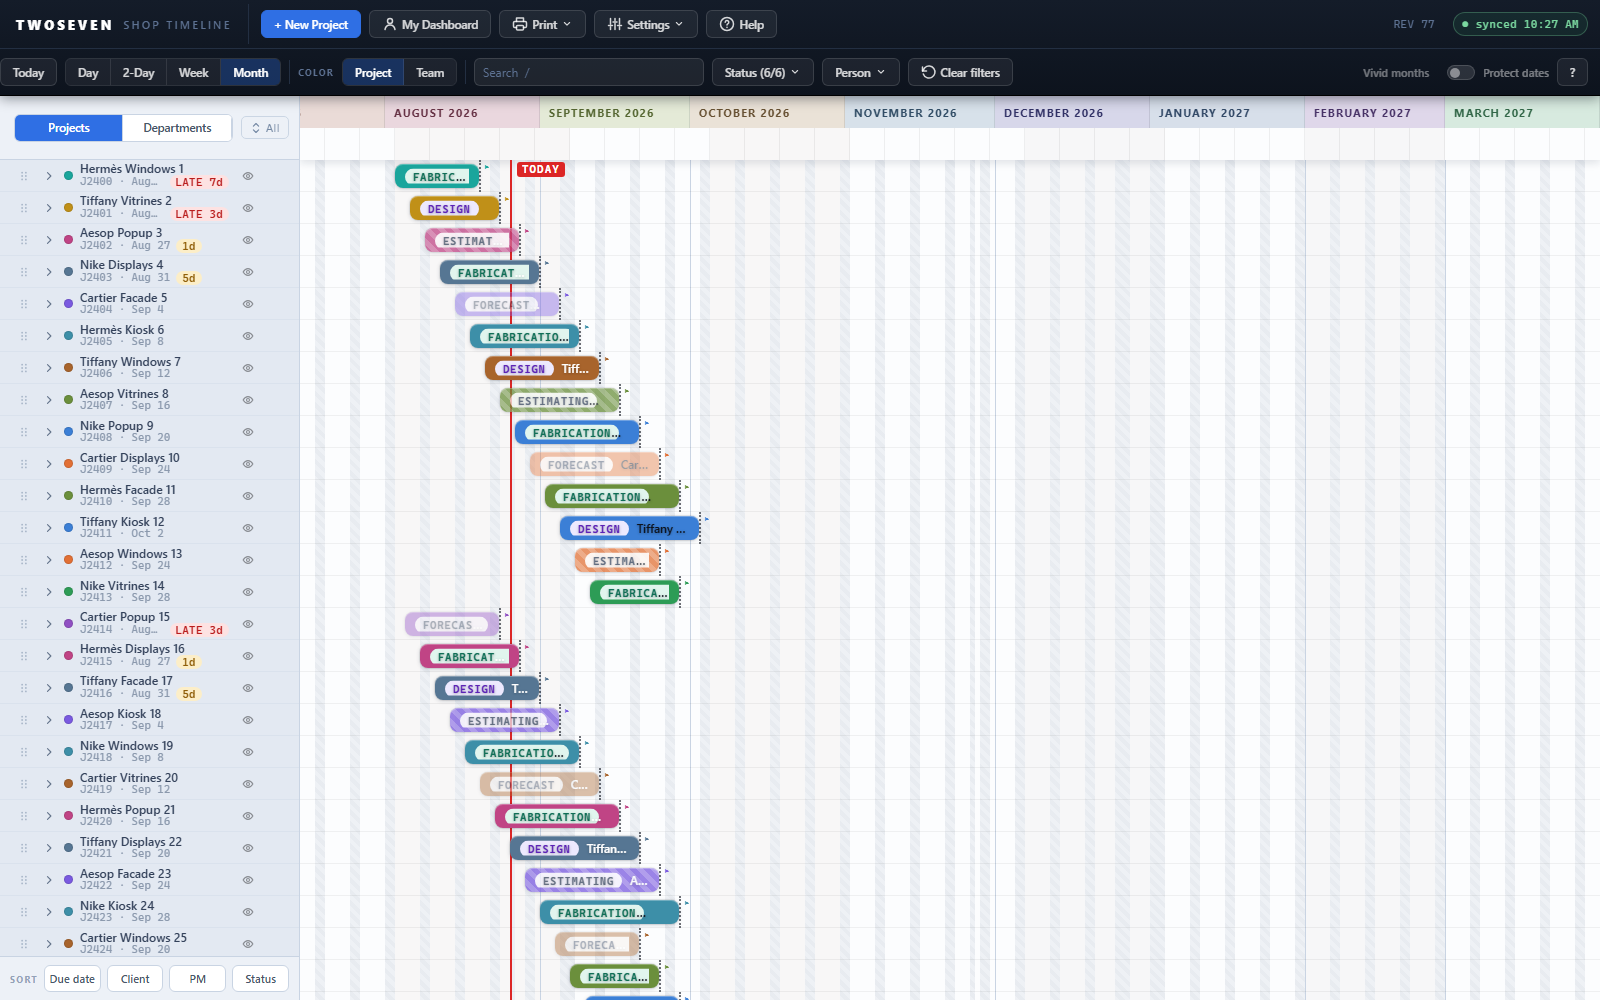
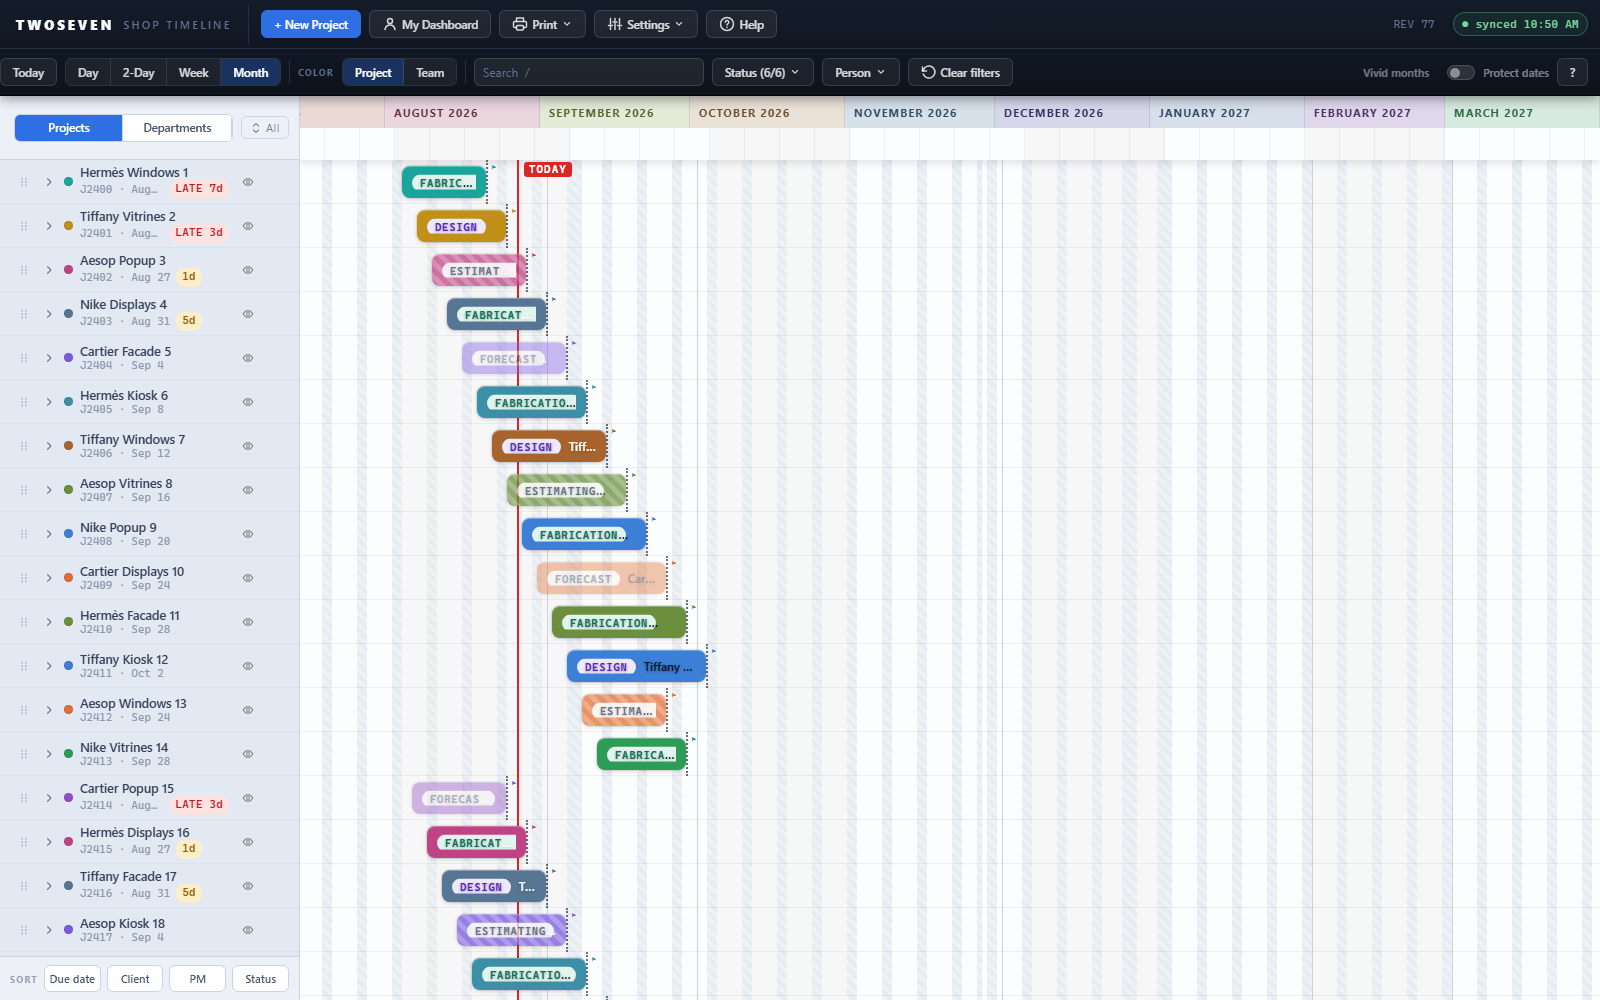
REV77 adjust: densities are 56/44, not 44/32 (owner ruling)
Comfortable keeps the pre-B5 default 56px rows; Compact takes the old
44px value. Bars stay 32px tall at both densities — only BAR_PAD moves
(12/6), so every hit target keeps the 24px floor without shrinking.
Design-Language §4 amended in the same PR (follow-or-update rule);
TODO §7 acceptance entry superseded in place; test46/test-b5 numbers
updated; Compact sidebar keeps the stock two-line styles (44px never
needed the tighter leading).

Changed region(s): [[0.25, 0.155, 0.4688, 1.0], [0.0312, 0.155, 0.1562, 0.961]]

diff --git a/index.html b/index.html
@@ -19,11 +19,11 @@
   --r-s:5px; --r-m:8px; --r-l:14px;
   /* type scale — Design-Language §3; --fs-micro is decorative eyebrows ONLY */
   --fs-title:15px; --fs-body:13px; --fs-label:11.5px; --fs-fine:11px; --fs-micro:9px;
-  --row-h:44px; /* Comfortable row height — §4 */
+  --row-h:56px; /* Comfortable row height — §4 (owner adjustment 2026-08-26: 56/44, not 44/32) */
 }
 /* B5 density: Compact rows (§4). The token drives real geometry — the JS lane math
    (rowH) mirrors it at both values; tests/test46.js asserts they stay in step. */
-body.compact{--row-h:32px}
+body.compact{--row-h:44px}
 /* ============ RESET ============ */
 *,*::before,*::after{box-sizing:border-box;margin:0;padding:0}
 html,body{height:100%;overflow:hidden;font-family:var(--sans);font-size:var(--fs-body);color:var(--txt);background:var(--paper)}
@@ -159,11 +159,8 @@ body.me-dock-on #me-dock{display:flex;flex-direction:column;position:fixed;left:
 .sb-chip{font-family:var(--mono);font-size:var(--fs-fine);font-weight:600;letter-spacing:.03em;padding:1.5px 6px;border-radius:8px;flex-shrink:0;line-height:1.5}
 .sb-chip.late{background:#FDE2E2;color:#B91C1C}
 .sb-chip.soon{background:#FCEEC8;color:#8F5E08}
-/* B5 Compact: the T5 two-line row keeps both lines, each single-line, tighter leading */
+/* B5 Compact: the T5 two-line row keeps both lines, each single-line, tighter gap */
 body.compact .sb-2l{gap:0}
-body.compact .sb-2l .sb-name{font-size:12px;line-height:1.1}
-body.compact .sb-2l .sb-sub{line-height:1.1}
-body.compact .sb-chip{line-height:1.2;padding:.5px 6px}
 .sb-row.task-row{padding-left:32px;background:#F2F5FA}
 .sb-row.task-row .sb-name{font-weight:450;font-size:12px}
 .sb-row.dept-head{background:#D6DFEB;border-bottom:1px solid #C2CFDF;font-size:var(--fs-fine);font-weight:700;text-transform:uppercase;letter-spacing:.1em;color:#57687F;cursor:pointer}
@@ -1335,15 +1332,17 @@ const APP_REV=77; // bump this ONE number on every release; used everywhere the 
 const SET_KEY ='shopTimelineSettings_v1';
 const PEOPLE_KEY='shopTimelinePeople_v1';
 const UI_KEY  ='shopTimelineUI_v1';
-/* B5 density (§4): the JS lane math mirrors --row-h. rowH(1)=BAR_PAD*2+BAR_H must equal
-   the token at both densities — Comfortable 44 (bar 32, gutter 12), Compact 32 (bar 24,
-   gutter 8, still a ≥24px hit target). tests/test46.js guards the drift both ways. */
-let BAR_H=32, BAR_PAD=6, LANE_G=6, DENSITY='comfortable';
-const HEAD_H=26, HDR_H=64;
+/* B5 density (§4, owner-adjusted 2026-08-26): the JS lane math mirrors --row-h.
+   rowH(1)=BAR_PAD*2+BAR_H must equal the token at both densities — Comfortable 56
+   (the pre-B5 default: bar 32, gutter 24), Compact 44 (bar 32, gutter 12). The bar
+   itself never shrinks, so every hit target stays ≥24px for free.
+   tests/test46.js guards the drift both ways. */
+const BAR_H=32, LANE_G=6, HEAD_H=26, HDR_H=64;
+let BAR_PAD=12, DENSITY='comfortable';
 function applyDensity(d){
   DENSITY=d==='compact'?'compact':'comfortable';
   const c=DENSITY==='compact';
-  BAR_H=c?24:32;BAR_PAD=c?4:6;LANE_G=c?4:6;
+  BAR_PAD=c?6:12;
   document.body.classList.toggle('compact',c);
   const v=document.getElementById('mi-density-v');if(v)v.textContent=c?'Compact':'Comfortable';
 }

diff --git a/tests/test-b5.js b/tests/test-b5.js
@@ -40,15 +40,15 @@ const E=s=>win.eval(s);
 const click=el=>el&&el.dispatchEvent(new win.MouseEvent('click',{bubbles:true}));
 
 setTimeout(()=>{
-  sec('density — Comfortable boot matches §4');
+  sec('density — Comfortable boot matches §4 (owner-adjusted 56/44)');
   ok('boot is Comfortable',E('DENSITY')==='comfortable');
-  ok('rowH(1) is 44 (the --row-h token)',E('rowH(1)')===44,'rowH(1)='+E('rowH(1)'));
+  ok('rowH(1) is 56 (the --row-h token, the pre-B5 default)',E('rowH(1)')===56,'rowH(1)='+E('rowH(1)'));
   ok('body has no compact class',!doc.body.classList.contains('compact'));
 
   sec('the Settings toggle switches to Compact');
   click(doc.getElementById('mi-density'));
   ok('DENSITY flips',E('DENSITY')==='compact');
-  ok('rowH(1) is 32',E('rowH(1)')===32,'rowH(1)='+E('rowH(1)'));
+  ok('rowH(1) is 44',E('rowH(1)')===44,'rowH(1)='+E('rowH(1)'));
   ok('body carries .compact (CSS --row-h override)',doc.body.classList.contains('compact'));
   ok('the menu item label follows',doc.getElementById('mi-density-v').textContent==='Compact');
   ok('bars keep a ≥24px hit target (§4)',E('BAR_H')>=24,'BAR_H='+E('BAR_H'));
@@ -56,13 +56,15 @@ setTimeout(()=>{
   ok('a drawn bar is BAR_H tall',bar&&bar.style.height===E('BAR_H')+'px',bar&&bar.style.height);
   ok('edge grab zones keep their §6 width',E('edgeZone(100,9)')===9&&E('edgeZone(40,9)')>=8);
   const sbRow=doc.querySelector('#side-rows .sb-row.proj-head');
-  ok('sidebar rows are 32px',sbRow&&sbRow.style.height==='32px',sbRow&&sbRow.style.height);
+  ok('sidebar rows are 44px',sbRow&&sbRow.style.height==='44px',sbRow&&sbRow.style.height);
   ok('the two-line row keeps name and code·date',
      sbRow&&!!sbRow.querySelector('.sb-name')&&!!sbRow.querySelector('.sb-sub'));
 
-  sec('acceptance — 30 projects fit one screen at Compact + Month');
+  sec('Compact fits more schedule — 30 projects at Month');
   E("setView('month')");
-  ok('30 rows total ≤960px',E('TOTAL_H')<=960,E('TOTAL_H')+'px');
+  /* Owner ruling 2026-08-26: densities are 56/44, so 30 uncollapsed rows are 1320px —
+     the brief's "one screen" line is superseded; group collapse is the big lever. */
+  ok('30 rows total 1320px (44px each, was 1680)',E('TOTAL_H')===1320,E('TOTAL_H')+'px');
 
   sec('density persists in UI_KEY');
   let ui=JSON.parse(win.localStorage.getItem('shopTimelineUI_v1')||'{}');

diff --git a/tests/test46.js b/tests/test46.js
@@ -46,14 +46,15 @@ function run(){
   ok('NPV_GUT matches .npv-gut width', String(E('NPV_GUT'))===gut, 'JS '+E('NPV_GUT')+' vs CSS '+gut);
   ok('NPV_ROWH matches last .npv-row height', String(E('NPV_ROWH'))===rowh[1], 'JS '+E('NPV_ROWH')+' vs CSS '+rowh[1]);
   if(/--fs-fine:/.test(src)){ /* C5 tokens — skipped on pre-C5 builds like the REV50 reference */
-    ok('--row-h token is Comfortable 44px (Design-Language §4)', /--row-h:44px/.test(src));
+    ok('--row-h token is Comfortable (Design-Language §4)',
+       /applyDensity/.test(src)?/--row-h:56px/.test(src):/--row-h:44px/.test(src));
     ok('no informational font-size below 11px (C5)', !/font-size:(10|[0-9])(\.[0-9]+)?px/.test(src));
   }
-  if(/applyDensity/.test(src)){ /* B5 density — skipped on pre-B5 builds */
-    ok('Compact override sets --row-h:32px', /body\.compact\{--row-h:32px\}/.test(src));
-    ok('JS lane math mirrors --row-h at Comfortable (44)', E('rowH(1)')===44, 'rowH(1)='+E('rowH(1)'));
+  if(/applyDensity/.test(src)){ /* B5 density (owner-adjusted 56/44) — skipped on pre-B5 builds */
+    ok('Compact override sets --row-h:44px', /body\.compact\{--row-h:44px\}/.test(src));
+    ok('JS lane math mirrors --row-h at Comfortable (56)', E('rowH(1)')===56, 'rowH(1)='+E('rowH(1)'));
     E("applyDensity('compact')");
-    ok('JS lane math mirrors --row-h at Compact (32)', E('rowH(1)')===32, 'rowH(1)='+E('rowH(1)'));
+    ok('JS lane math mirrors --row-h at Compact (44)', E('rowH(1)')===44, 'rowH(1)='+E('rowH(1)'));
     ok('Compact bar keeps the ≥24px hit target (§4)', E('BAR_H')>=24, 'BAR_H='+E('BAR_H'));
     E("applyDensity('comfortable')");
   }

diff --git a/docs/Milestones/Phase 3/2026-08-26-b5-compact-density.md b/docs/Milestones/Phase 3/2026-08-26-b5-compact-density.md
@@ -7,19 +7,19 @@ every screen") + the missing collapse on REV44's group headers ·
 ## What changed
 
 - **A density toggle** in the Settings menu: **Density: Comfortable / Compact**. One
-  click switches the whole timeline between 44px and 32px rows, and the choice is
-  remembered per browser like every other view preference. Compact fits roughly a
-  third more schedule on the same screen — 30 projects come within one screen at
-  Month zoom, and collapsing any group closes the rest of the gap.
-- **Comfortable itself tightened from 56px to 44px rows** — that's not a side effect,
-  it's the design language's own number (§4: "Comfortable 44px / Compact 32px, token
-  `--row-h`"). The token shipped in the C5 pass claiming 44 while real rows were 56;
-  this change makes the stylesheet token and the JavaScript lane math agree, and the
-  geometry drift test now asserts they stay in agreement **at both densities**.
-- At Compact the sidebar's two-line rows keep both lines — project name over
-  code · date — with tighter leading; nothing informational drops below 11px. Bars
-  shrink from 32px to 24px tall, never below the design language's **24px minimum hit
-  target**: edge-resize zones, grip dots, eyes and pencils all stay grabbable.
+  click switches the whole timeline between 56px and 44px rows, and the choice is
+  remembered per browser like every other view preference. Comfortable is exactly the
+  layout everyone already knows; Compact fits about a quarter more schedule on the
+  same screen.
+- **The densities are 56/44, not the design language's original 44/32.** The first cut
+  of this change shipped §4's written numbers; the owner reviewed it and ruled them too
+  tight — Comfortable keeps the pre-B5 default (56px) and Compact takes the old 44px
+  value. §4 was amended in the same PR (the "follow the doc or update the doc" rule).
+  Bars stay 32px tall at both densities — only the breathing room around them tightens —
+  so every hit target keeps the ≥24px floor without shrinking anything grabbable.
+- The `--row-h` token now drives real geometry: the JavaScript lane math mirrors it at
+  both values, and the geometry drift test asserts they stay in agreement at each
+  density. Sidebar grips, eyes and pencils also gained an explicit 24px minimum.
 - **Group headers now collapse.** When the sidebar is grouped (by PM, client, or
   status), clicking a header — "Caroline · 8", say — folds her projects away behind
   the header; the chevron and count stay. Collapsed groups persist per grouping mode
@@ -30,30 +30,29 @@ every screen") + the missing collapse on REV44's group headers ·
 
 Stubbed-data captures (headless Chrome), 30 projects at Month zoom, 1600×1000:
 
-- [Before: Comfortable was 56px rows](screenshots/before-b5-rows.png) (REV76 — ~14 rows on screen)
-- [After: Comfortable at the §4 44px](screenshots/after-b5-comfortable.png) (~18 rows)
-- [After: Compact 32px rows](screenshots/after-b5-compact.png) (~26 rows, sidebar still two-line)
-- [After: grouped by PM, "Caroline · 8" collapsed](screenshots/after-b5-collapsed.png) — all 30 projects accounted for on one screen
+- [Comfortable — 56px rows, unchanged from REV76](screenshots/before-b5-rows.png)
+- [Compact — 44px rows](screenshots/after-b5-compact.png) (sidebar still two-line)
+- [Grouped by PM, "Caroline · 8" collapsed](screenshots/after-b5-collapsed.png)
 
 ## Why it mattered
 
 The audit's Theme B: PMs run the Monday meeting off this screen, and at one fixed
 density a busy season means scrolling mid-conversation. Zoom (REV75) compressed time;
-this compresses rows, and group collapse folds whole books of work out of the way.
-Together a 30-project shop fits a laptop.
+this compresses rows a notch, and group collapse folds whole books of work out of the
+way — that's the big lever for large seasons.
 
 ## Notes
 
 - No SharePoint, auth, or schema involvement — density and collapsed groups live in
   the browser's `UI_KEY` bundle alongside zoom and lens.
 - New suite `tests/test-b5.js` (25 checks: both densities' geometry, the ≥24px hit
-  floor, one-screen acceptance, persistence, collapse/expand, per-mode keying,
-  reload survival). `tests/test46.js` gained the two-density drift assertions.
-  Both skip on the frozen REV50 reference.
+  floor, persistence, collapse/expand, per-mode keying, reload survival).
+  `tests/test46.js` gained the two-density drift assertions. Both skip on the frozen
+  REV50 reference.
 - Known ceilings / follow-ups (mirrored in `docs/TODO.md` §7):
-  - Strictly, 30 *uncollapsed* rows at Compact are 960px of rows — a 1080p laptop
-    with the toolbar shows ~28; §4's 32px row and 24px hit floor win over squeezing
-    further, and one collapsed group (or a status filter) closes the gap.
+  - The brief's acceptance line "30 projects fit one screen at Compact" was written
+    against the 44/32 tokens and is superseded by the owner's 56/44 ruling — 30
+    uncollapsed Compact rows are 1320px. Group collapse and filters carry that load.
   - The sidebar's ⇕ All button still only expands/collapses project phase rows and
     department sections — it doesn't fold group headers. Add if PMs ask for
     "collapse all groups".

diff --git a/docs/TODO.md b/docs/TODO.md
@@ -371,10 +371,13 @@ own "only if it proves needed" gates.
 - [ ] Very short projects (< ~2 weeks) render pill-only at Week zoom — intended per
       Design-Language §7 anatomy thresholds (px constants `BAR_W_*`). Gate: real
       complaints about lost labels. (REV75)
-- [ ] The V3 acceptance line "30 projects fit one screen at Compact + Month" is met
-      with one group collapsed or any filter; 30 *uncollapsed* rows are 960px, so a
-      1080p laptop shows ~28. §4's 32px Compact row and ≥24px hit floor win over
-      squeezing rows further. Gate: an owner amendment to §4's row tokens. (REV77)
+- [ ] The V3 acceptance line "30 projects fit one screen at Compact + Month" —
+      SUPERSEDED (owner, 2026-08-26): the first cut shipped §4's written 44/32 tokens
+      (30×32 = 960px, borderline one screen); the owner ruled that too tight and reset
+      the densities to 56 (the pre-B5 default) / 44, amending §4. 30 uncollapsed
+      Compact rows are now 1320px — group collapse and filters are the levers for big
+      seasons, not row height. Revisit only if an even-denser third step is asked for.
+      (REV77)
 - [ ] The sidebar ⇕ All button doesn't fold the sort-group headers (PM/client/status) —
       it still only toggles project phase rows and department sections. Add "collapse
       all groups" if PMs ask for it. (REV77)

diff --git a/docs/Design-Language.md b/docs/Design-Language.md
@@ -114,7 +114,7 @@ Rule: nothing informational below 11px. The current 8.5–10px toolbar/mini labe
 - **Spacing unit 4px.** Gaps and paddings are multiples: 4/8/12/16/24. (Most of the app is already close; drift no further.)
 - **Radii:** keep tokens `--r-s 5px` (chips, pills), `--r-m 8px` (buttons, inputs, bars), `--r-l 14px` (overlays, cards). Bars use `--r-m` ends.
 - **Hairlines** for structure (1px, `--side-line` on light / `--chrome-line` on dark); **shadows only for things that float** (menus, overlays, drag ghosts): `0 4px 18px rgba(13,19,29,.18)`. Nothing at rest casts a shadow except the toolbar.
-- **Row heights:** Comfortable 44px / Compact 32px (token `--row-h`), gutter 12px. All hit targets ≥ 24px even in Compact.
+- **Row heights:** Comfortable 56px / Compact 44px (token `--row-h`) — bars stay 32px tall at both, only the gutter tightens (24px → 12px). *Owner adjustment 2026-08-26 (REV77): the original 44/32 spec read too tight in practice — Comfortable keeps the pre-B5 default, Compact takes the old 44 value.* All hit targets ≥ 24px even in Compact.
 
 ---
 
